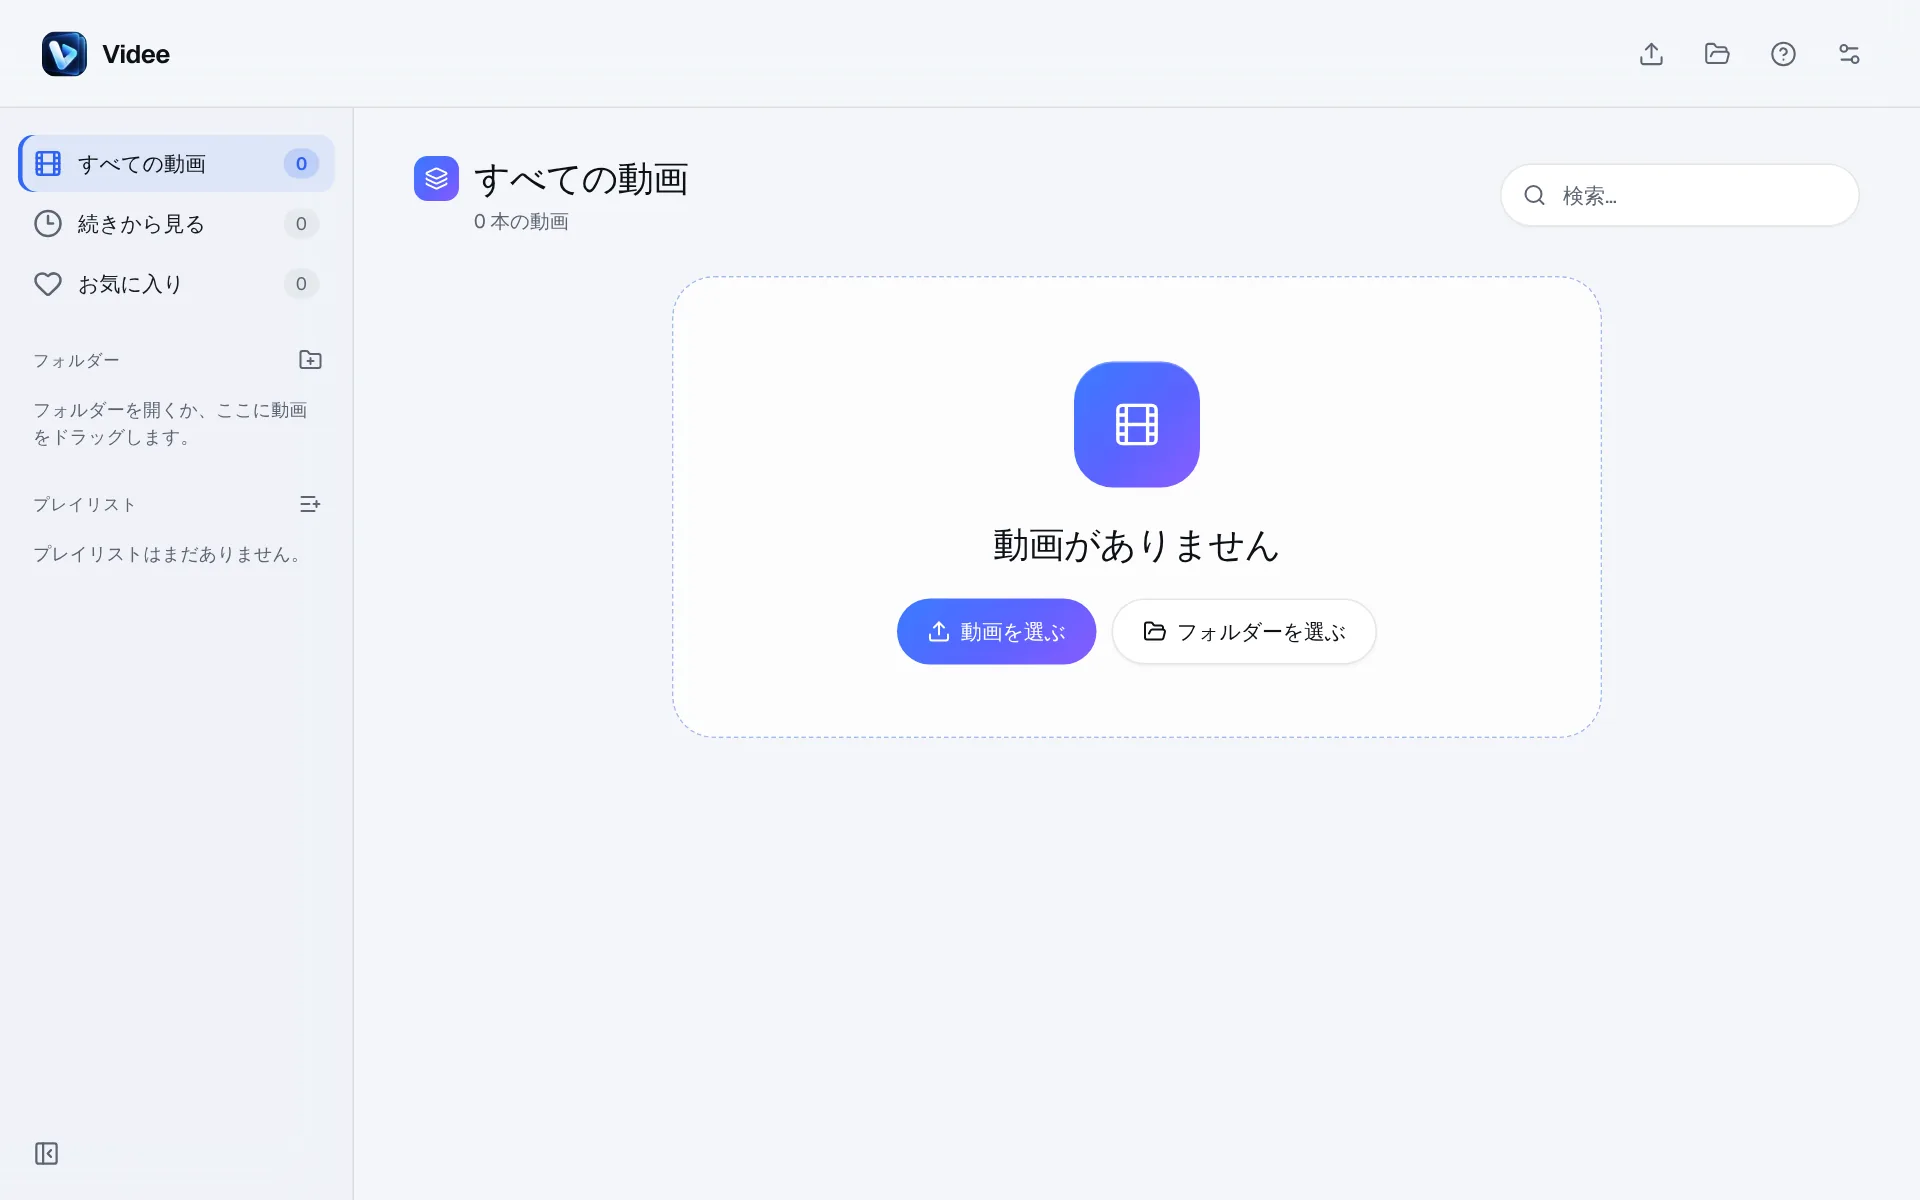
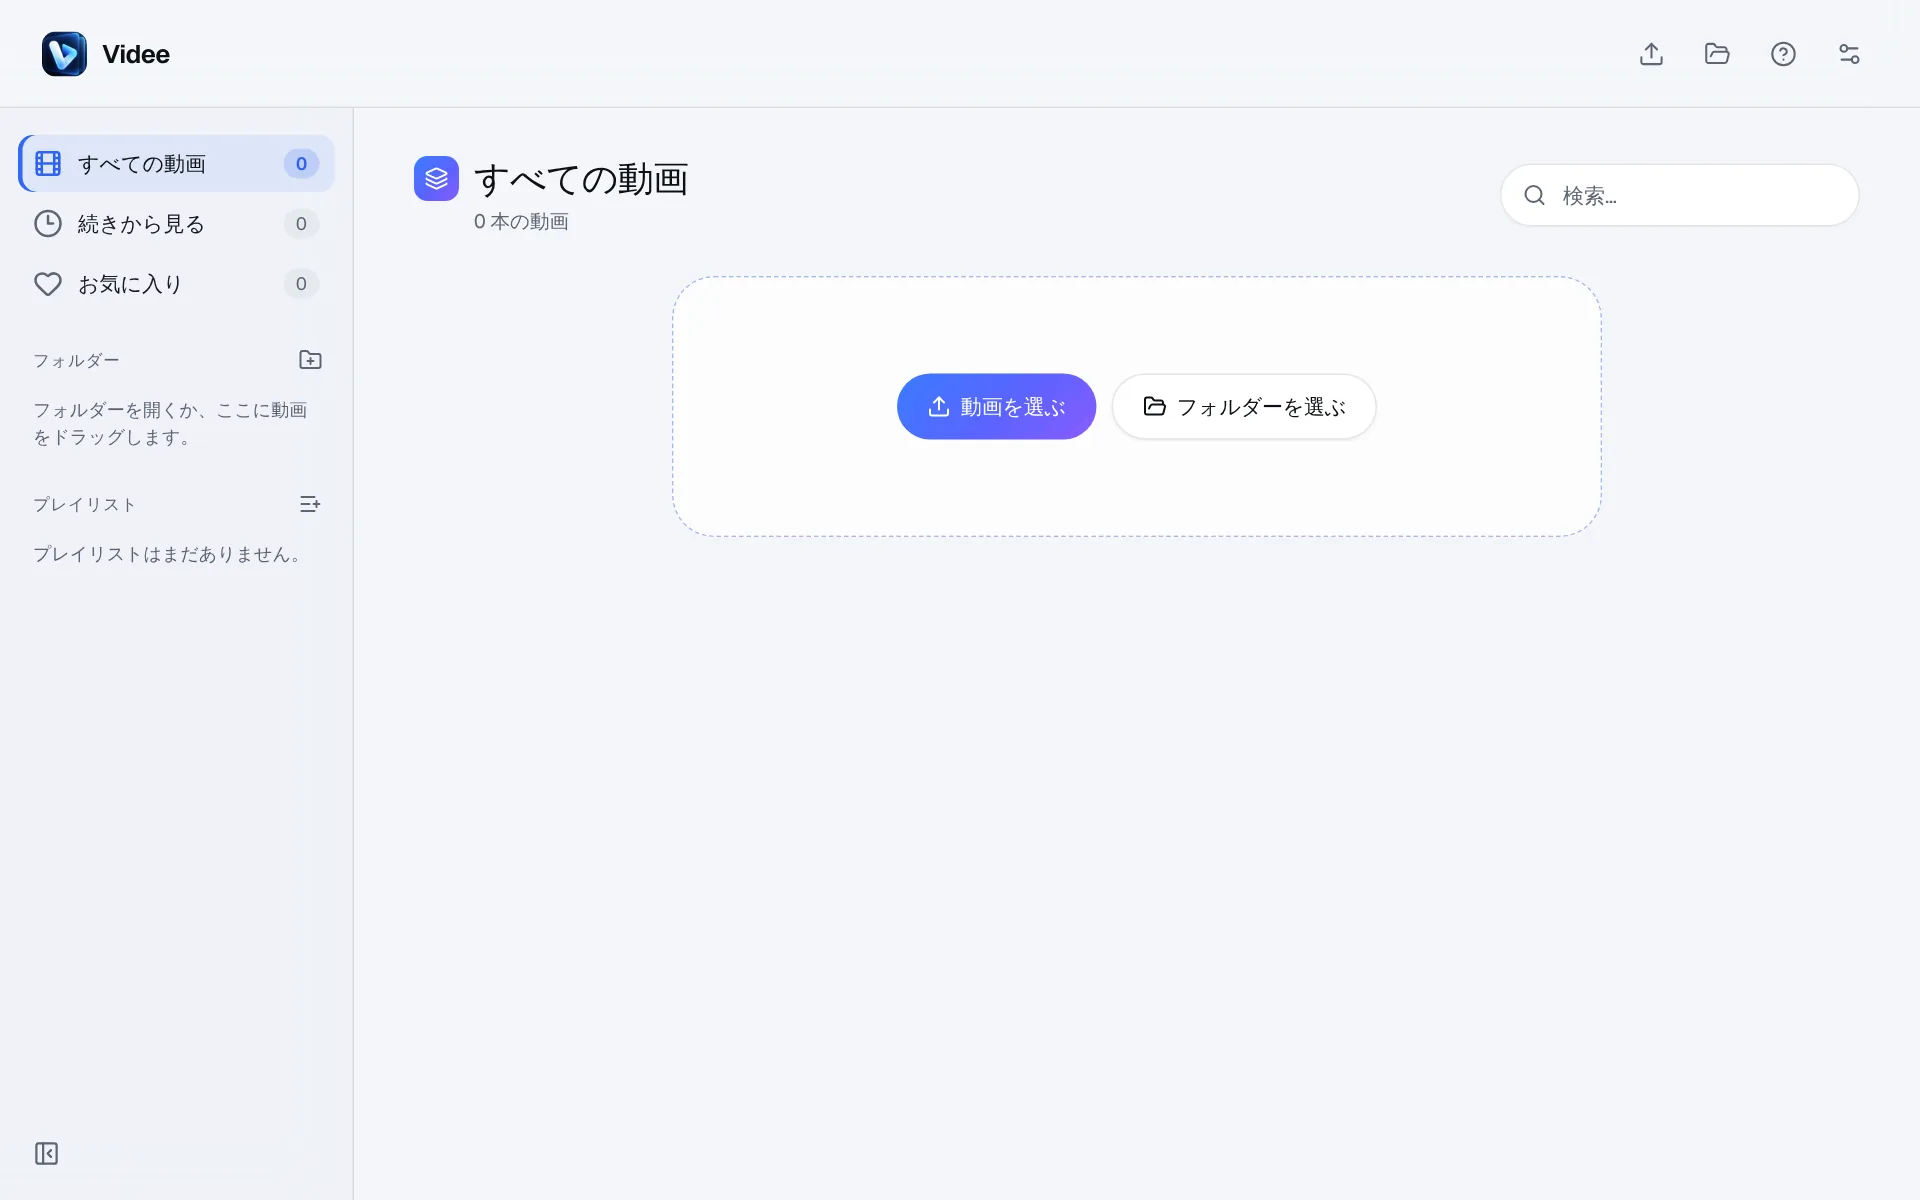
Empty library shows only the choose buttons (0.1.21)
Claude-Session: https://claude.ai/code/session_01Bur9VXErjJUuBfv5JLoDFu

Changed region(s): [[0.4688, 0.2775, 0.6562, 0.4625], [0.4688, 0.4933, 0.5938, 0.555]]

diff --git a/src/App.tsx b/src/App.tsx
@@ -1151,7 +1151,7 @@ export default function App() {
         <div className="library-toolbar">{(filtered.length > 0 || playlistOrder) && <div className="library-selection">{selected.length > 0 ? <span className="selection-status">{t('{n} selected', { n: selected.length })}</span> : playlistOrder ? <span className="selection-status">{t('Playlist order')}</span> : showFolders ? <span className="selection-status section-label">{t('Videos')}</span> : null}{filtered.length > 0 && (selected.length === filtered.length ? <button type="button" className="secondary-button" onClick={()=>setSelected([])}>{t('Clear')}</button> : <button type="button" className="secondary-button" onClick={()=>setSelected(filtered.map(item=>item.id))}>{t('Select all')}</button>)}{selected.length > 0 && folders.length > 0 && <ChoiceMenu label={t('Move to')} trigger={<><Folder size={19} aria-hidden="true"/><span>{t('Move to')}</span></>} value="" options={[...(selected.some(id=>folders.some(folder=>folder.ids.includes(id)))?[{value:'library',label:t('Remove from folder'),icon:<Folder size={17}/>}]:[]),...folders.map(folder=>({value:folder.id,label:folder.name,icon:<Folder size={17}/>}))]} onChange={value=>relocate(selected, value==='library'?'':value)}/>}{selected.length > 0 && <button type="button" className="secondary-button collection-delete-action" onClick={()=>setDeleteIds(selected.slice())}><Trash2 size={16} aria-hidden="true"/>{t('Remove from library')}</button>}</div>}{items.length > 0 && <div className="library-view-options">{prefs.layout==='grid'&&<ChoiceMenu label={t('Sort by')} trigger={<><ArrowDownWideNarrow size={19} aria-hidden="true"/><span>{sortLabel}</span></>} value={activeSort.sort} disabled={!!playlistOrder} options={[{value:'recent',label:t('Recently played')},{value:'name',label:t('Name')},{value:'duration',label:t('Duration')},{value:'size',label:t('Size')}]} onChange={value=>chooseSort(value as LibrarySort)}/>}<div className="layout-switch" data-layout={prefs.layout}><span className="layout-pill" aria-hidden="true"/><IconButton icon={LayoutGrid} label={t('Grid view')} active={prefs.layout==='grid'} onClick={()=>setLayout('grid')}/><IconButton icon={List} label={t('List view')} active={prefs.layout==='list'} onClick={()=>setLayout('list')}/></div></div>}</div>
         {filtered.length > 0 ? <div key={`${view}-${scope}-${prefs.layout}`} data-slide={viewSlide} className={`video-grid ${prefs.layout==='list'?'video-list':''}${selected.length ? ' selecting' : ''}`}>
           {prefs.layout==='list'&&<div className="video-list-head">{SORT_COLUMNS.map(column => <button key={column.id} type="button" className={`list-sort list-sort-${column.id}`} disabled={!!playlistOrder} aria-sort={!playlistOrder && activeSort.sort===column.id ? (activeSort.dir==='asc'?'ascending':'descending') : 'none'} onClick={()=>toggleSort(column.id)}><span>{t(column.label)}</span>{!playlistOrder && activeSort.sort===column.id ? (activeSort.dir==='asc'?<ArrowUp size={12} aria-hidden="true"/>:<ArrowDown size={12} aria-hidden="true"/>) : null}</button>)}<span className="list-actions" aria-hidden="true"/></div>}
-          {filtered.map(item => <VideoCard key={item.id} item={item} layout={prefs.layout} selected={selected.includes(item.id)} playing={item.id === activeId} folderName={!scope ? folderOf.get(item.id) || '' : ''} folders={folders} language={prefs.language} actions={cardActions}/>)}</div> : <div className={`no-results${ready && items.length===0 && !query && view==='all' && !scope ? ' empty-library' : ''}`}>{!ready ? <span className="sr-only">{t('Loading…')}</span> : items.length===0 && !query && view==='all' && !scope ? <><span className="empty-art" aria-hidden="true"><Film size={34} strokeWidth={1.6}/></span><h2>{t('No videos')}</h2><div className="empty-actions"><button type="button" className="primary-button" onClick={() => void pickFiles()}><Upload size={16} aria-hidden="true"/>{t('Choose videos')}</button><button type="button" className="secondary-button" onClick={() => void pickFolder()}><FolderOpen size={16} aria-hidden="true"/>{t('Choose a folder')}</button></div></> : <><Search size={30} aria-hidden="true"/><h2>{query ? t('No videos found') : view==='continue' ? t('Nothing to continue') : scope?t('Empty collection'):t('No favorites')}</h2>{scope && !query && <p className="empty-hint">{currentCollection?.kind === 'playlist' ? t('Drag videos onto this playlist in the sidebar.') : t('Drag videos onto this folder in the sidebar.')}</p>}<button className="secondary-button" onClick={query ? ()=>setQuery('') : clearFilters}>{query ? t('Reset search') : t('Show all videos')}</button></>}</div>}
+          {filtered.map(item => <VideoCard key={item.id} item={item} layout={prefs.layout} selected={selected.includes(item.id)} playing={item.id === activeId} folderName={!scope ? folderOf.get(item.id) || '' : ''} folders={folders} language={prefs.language} actions={cardActions}/>)}</div> : <div className={`no-results${ready && items.length===0 && !query && view==='all' && !scope ? ' empty-library' : ''}`}>{!ready ? <span className="sr-only">{t('Loading…')}</span> : items.length===0 && !query && view==='all' && !scope ? <><h2 className="sr-only">{t('No videos')}</h2><div className="empty-actions"><button type="button" className="primary-button" onClick={() => void pickFiles()}><Upload size={16} aria-hidden="true"/>{t('Choose videos')}</button><button type="button" className="secondary-button" onClick={() => void pickFolder()}><FolderOpen size={16} aria-hidden="true"/>{t('Choose a folder')}</button></div></> : <><Search size={30} aria-hidden="true"/><h2>{query ? t('No videos found') : view==='continue' ? t('Nothing to continue') : scope?t('Empty collection'):t('No favorites')}</h2>{scope && !query && <p className="empty-hint">{currentCollection?.kind === 'playlist' ? t('Drag videos onto this playlist in the sidebar.') : t('Drag videos onto this folder in the sidebar.')}</p>}<button className="secondary-button" onClick={query ? ()=>setQuery('') : clearFilters}>{query ? t('Reset search') : t('Show all videos')}</button></>}</div>}
       </section>}
     </main>
 

diff --git a/src/style.css b/src/style.css
@@ -1655,14 +1655,9 @@ body { background: var(--base); }
 @media (hover: hover) { .folder-card:not(.list):hover .folder-cover { transform: translateY(-4px); box-shadow: var(--card-shadow-hover); } }
 
 /* Empty library: a friendly drop zone. */
-.no-results.empty-library { max-width: 620px; margin: 28px auto 0; padding: 52px 32px 48px; gap: 12px; border-radius: 28px; border: 1.5px dashed color-mix(in srgb, var(--accent-fill) 35%, var(--line)); background: color-mix(in srgb, var(--surface) 70%, transparent); }
-.empty-art { position: relative; display: grid; place-items: center; width: 84px; height: 84px; margin: 4px 0 12px; border-radius: 26px; color: #fff; background: var(--accent-grad); box-shadow: inset 0 1px 0 #ffffff40; animation: videe-float 5s ease-in-out infinite; }
-.no-results.empty-library h2 { font-size: var(--type-title1); line-height: var(--leading-title1); font-weight: 650; letter-spacing: -.02em; }
-.no-results.empty-library .empty-actions { margin-top: 10px; }
+.no-results.empty-library { max-width: 620px; margin: 28px auto 0; padding: 64px 32px; gap: 12px; border-radius: 28px; border: 1.5px dashed color-mix(in srgb, var(--accent-fill) 35%, var(--line)); background: color-mix(in srgb, var(--surface) 70%, transparent); }
+.no-results.empty-library .empty-actions { margin-top: 0; }
 .no-results.empty-library .empty-actions > button { min-height: 44px; padding-inline: 20px; }
-@keyframes videe-float { 0%, 100% { translate: 0 0; } 50% { translate: 0 -5px; } }
-:root[data-motion=off] .empty-art { animation: none; }
-@media (prefers-reduced-motion: reduce) { .empty-art { animation: none; } }
 .drop-overlay { background: color-mix(in srgb, var(--base) 70%, transparent); box-shadow: inset 0 0 0 2px var(--accent-fill); }
 
 /* Watching: a dark screening room in every theme. */
